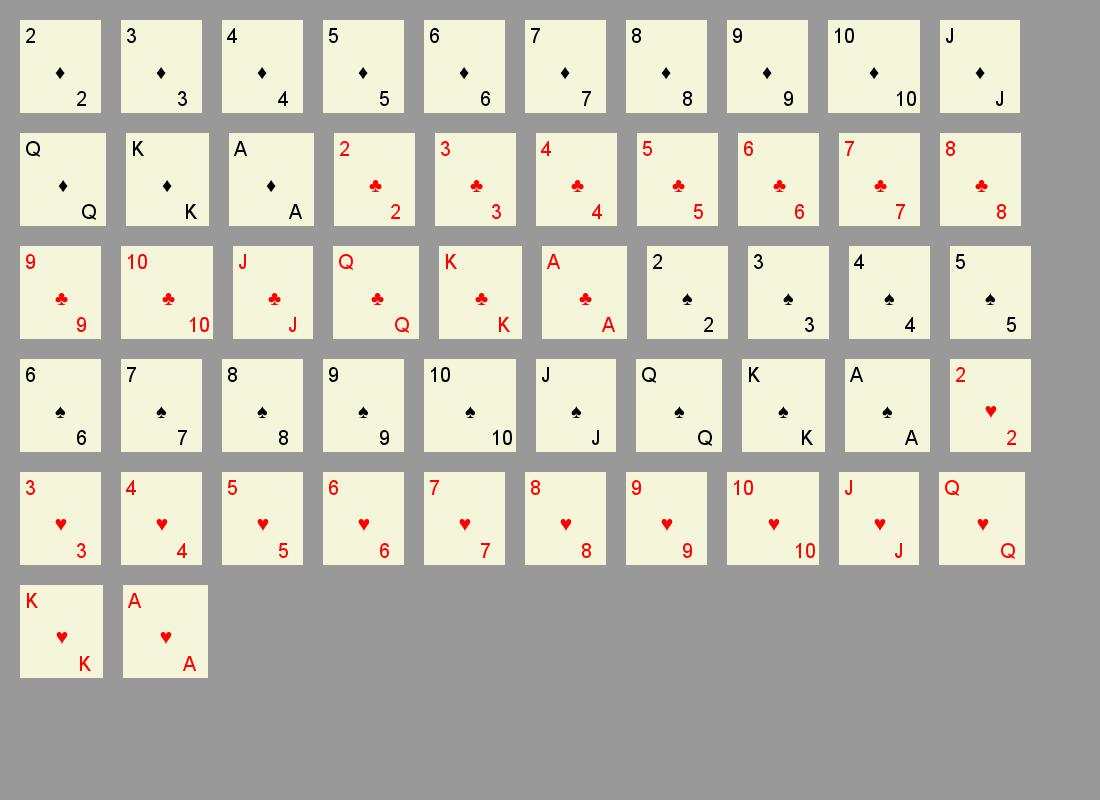
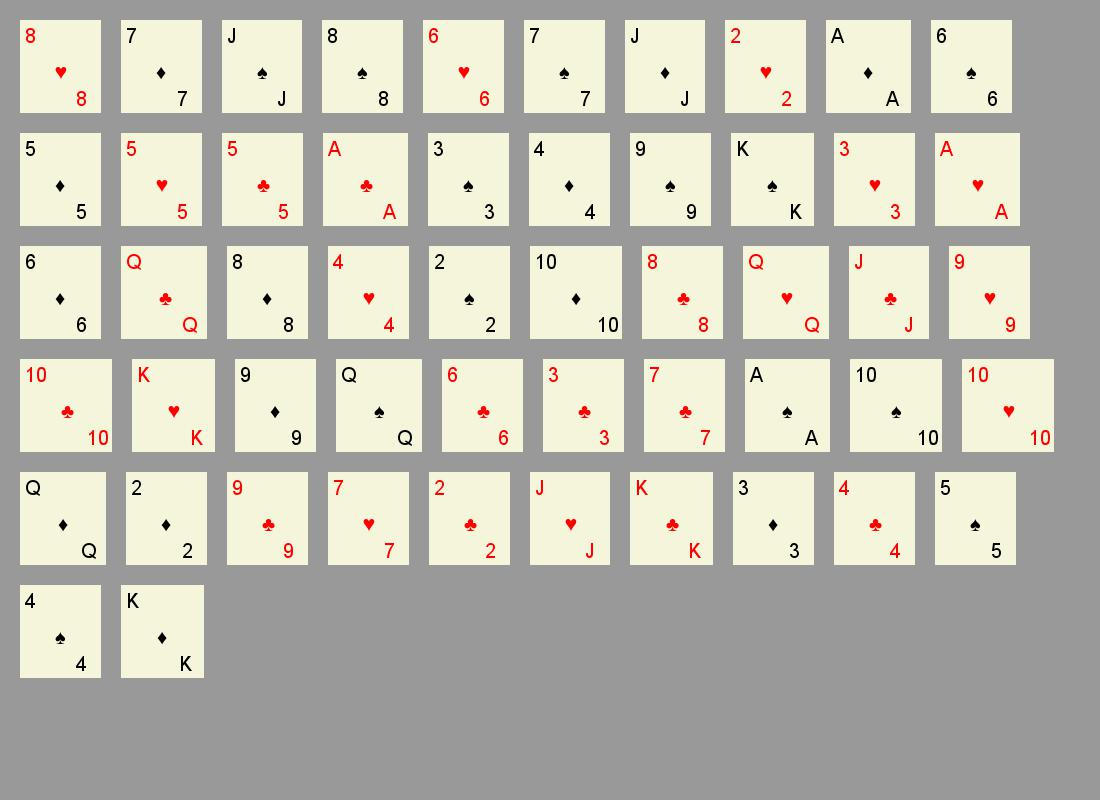
save deck image after shuffle

diff --git a/Python/source/testdomains.py b/Python/source/testdomains.py
@@ -6,11 +6,11 @@ from domains import Deck
 
        
 deck = Deck()
-print '************** Deck of Cards ****************'
-deck.show()
-#deck.shuffle()
-#print '************** Deck of Cards after shuffle *****************'
+#print '************** Deck of Cards ****************'
 #deck.show()
+deck.shuffle()
+print '************** Deck of Cards after shuffle *****************'
+deck.show()
 
 
 
